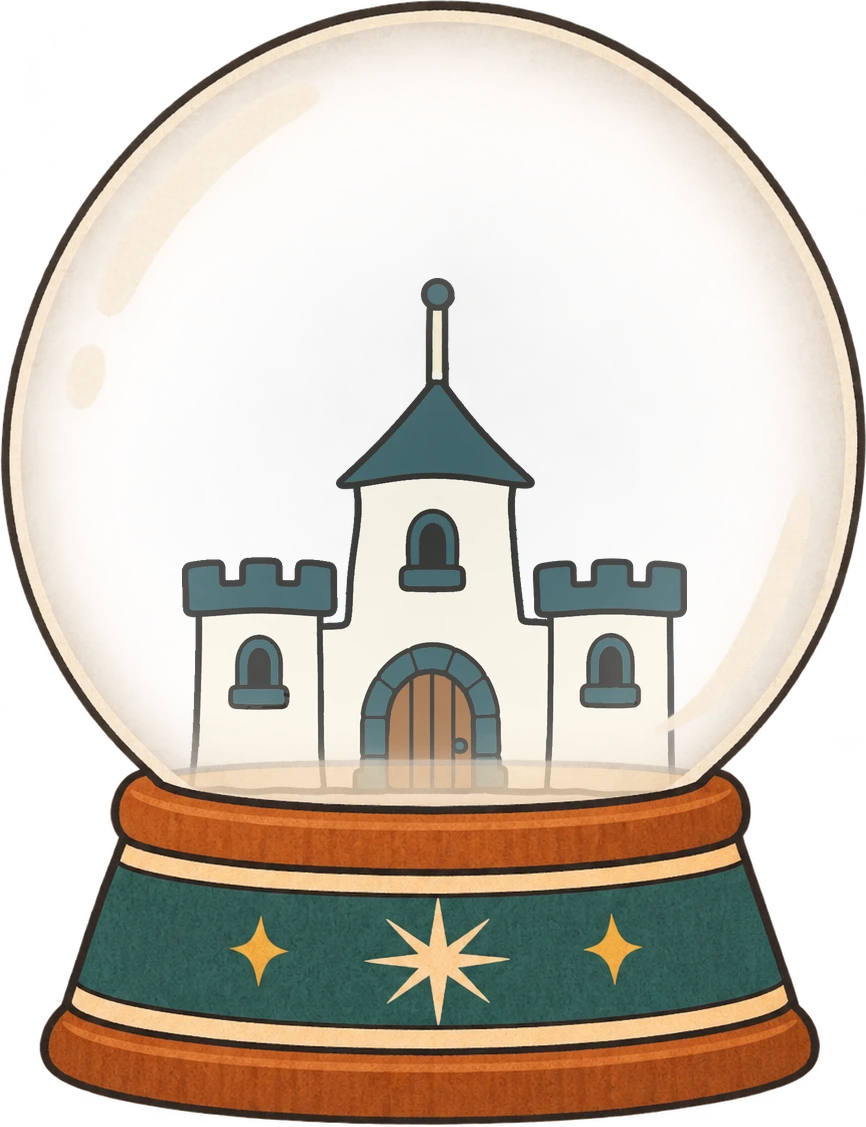
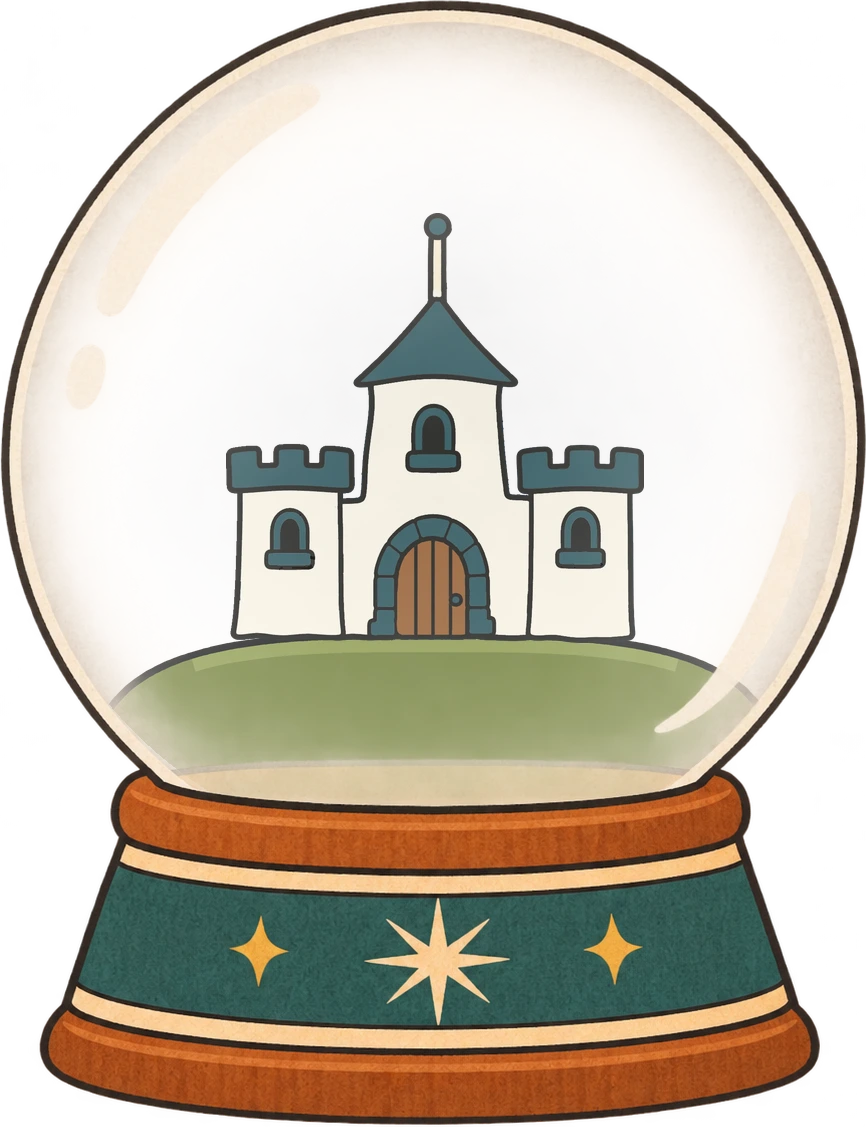
The snow globe opens its own card; the castle stands on a hill
Claude-Session: https://claude.ai/code/session_01EmtaLuxyKEoPQVxo5g5b5C

Changed region(s): [[0.1247, 0.1863, 0.873, 0.7143]]

diff --git a/tools/cut_globe.py b/tools/cut_globe.py
@@ -4,19 +4,47 @@ snow globe with this inside it, I'm making the art now") with his Brand Castle i
 glass's own see-through wash lies over it; its flag's six frames (art/snowglobe/brand-castle-flag.webp) are cut one a
 picture to wave on its pole (src/props.mjs, the globe's BITS). Prints the flag's place for src/props.mjs.
 Run from the repo root: python3 tools/cut_globe.py"""
-from PIL import Image
+from PIL import Image, ImageChops, ImageDraw
 
 globe = Image.open("art/snowglobe/snowglobe-source.png").convert("RGBA")
 castle = Image.open("art/snowglobe/brand-castle.webp").convert("RGBA")
 flags = Image.open("art/snowglobe/brand-castle-flag.webp").convert("RGBA")
 
 N = globe.width
-CH = 520  # the castle's height in the globe's pixels, its middle on the globe's
-FOOT = 868  # its foot, just under the front of the base's rim
+MID = 617  # the globe's middle, across
+# THE HILL the castle stands on, so it sits higher in the glass: "Can we add a simple procedural hill under the castle so
+# it sits a bit higher?" (Carl, 3 Nov 2026). A rounded mound from under the front of the base's rim, flat enough on top
+# for the castle, in an olive the room already has (the rug's), a lighter crown, and the castle's own charcoal line.
+HILL_BASE, HILL_H, HILL_HALF, HILL_P = 880, 175, 345, 3.2
+CH = 430  # the castle's height in the globe's pixels
 k = CH / castle.height
 cw = round(castle.width * k)
-left, top = round(617 - cw / 2), FOOT - CH
+hill_top_at = lambda t: HILL_BASE - HILL_H * max(0.0, 1 - abs(t) ** HILL_P) ** (1 / HILL_P)
+# stood on the hill's top, its own foot line over the hill's, so its door shows whole
+FOOT = round(hill_top_at(0)) + 8
+left, top = round(MID - cw / 2), FOOT - CH
 out = Image.new("RGBA", globe.size, (0, 0, 0, 0))
+
+def hill(size):
+    S = 4  # drawn four times over, then brought down, so its edge is smooth
+    from PIL import ImageDraw
+    im = Image.new("RGBA", (size[0] * S, size[1] * S), (0, 0, 0, 0))
+    d = ImageDraw.Draw(im)
+    pts = [((MID + t / 100 * HILL_HALF) * S, hill_top_at(t / 100) * S) for t in range(-100, 101)]
+    body = pts + [((MID + HILL_HALF) * S, (HILL_BASE + 40) * S), ((MID - HILL_HALF) * S, (HILL_BASE + 40) * S)]
+    d.polygon(body, fill=(125, 138, 74, 255))
+    # a lighter crown just under its top edge
+    crown = [(x, y + 10 * S) for x, y in pts[30:171]]
+    d.line(crown, fill=(150, 163, 92, 255), width=14 * S, joint="curve")
+    d.line(pts, fill=(38, 40, 40, 255), width=round(CH * 14 / 955) * S + S, joint="curve")
+    im = im.resize(size, Image.LANCZOS)
+    # kept inside the glass: the globe's round, read off its outline (top at y 71, 184 to 1046 across at y 520), a little in
+    inside = Image.new("L", size, 0)
+    ImageDraw.Draw(inside).ellipse((615 - 423, 502 - 423, 615 + 423, 502 + 423), fill=255)
+    im.putalpha(ImageChops.multiply(im.getchannel("A"), inside))
+    return im
+
+out.alpha_composite(hill(globe.size))
 out.alpha_composite(castle.resize((cw, CH), Image.LANCZOS), (left, top))
 out.alpha_composite(globe)
 box = out.getchannel("A").point(lambda a: 255 if a > 8 else 0).getbbox()
@@ -30,5 +58,5 @@ for f in range(6):
     flags.crop((f * 300, 0, f * 300 + 300, 230)).save(f"assets/globe-flag-{f}.webp", "WEBP", quality=92)
 W, H = out.size
 px, py = left + 484 * k - box[0], top + 62 * k - box[1]
-print("globe", out.size)
+print("globe", out.size, "castle foot", FOOT)
 print("at", [round(px / W, 4), round(1 - py / H, 4)], "anchor", [0, round(1 - 40 / 230, 4)], "flag", round(300 * FK * k / W, 4))

diff --git a/CLAUDE.md b/CLAUDE.md
@@ -486,7 +486,10 @@ and sonic chaos gremlin."; visitor counts, yes; old addresses go to the room (`4
 lays out the real site. **The snow globe, 3 Nov 2026**, his drawing with his Brand Castle from Homegrown's classroom inside, its flag waving:
 "I'm gonna replace the candle with a snow globe with this inside it", and "It should go to welcometostudioland.com".
 `tools/cut_globe.py` builds it; it stands where the picture frame stood, in the opening view, and the frame (which opens
-nothing) moved to the candle's old place at the console's far end. The wall says STUDIOLAND.
+nothing) moved to the candle's old place at the console's far end. The wall says STUDIOLAND. Then it opens a card rather than the site ("It should zoom in actually, to a card that has a little info about
+it"): his title StudioLand, an empty space for his words until he sends them, and VISIT STUDIOLAND out to the site; the
+castle stands on a hill drawn by the cut script ("Can we add a simple procedural hill under the castle so it sits a bit
+higher?").
 
 ## Laptop first. Phones wait.
 
